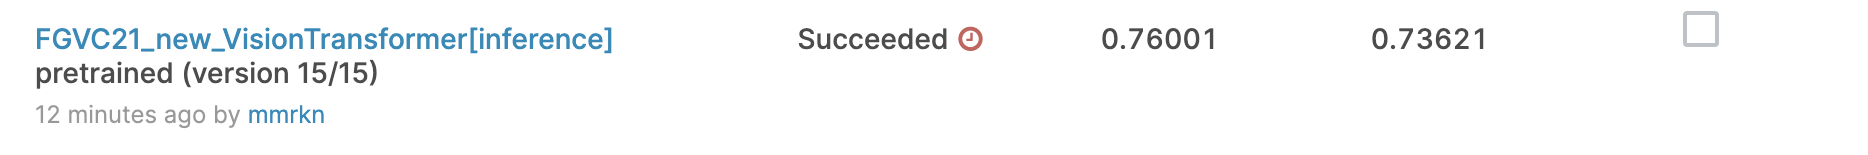
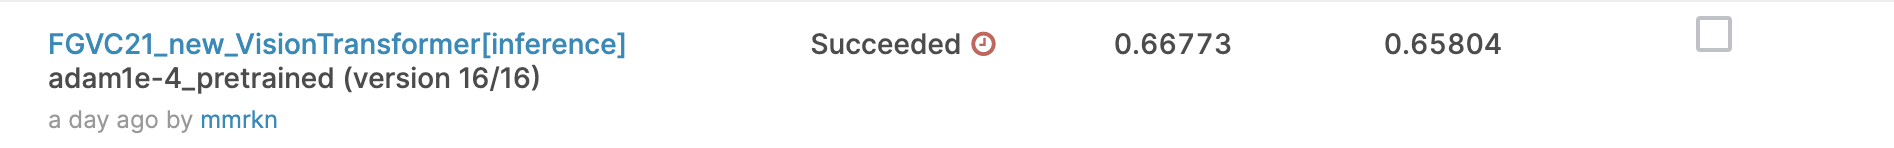
update 10/31

diff --git a/Configuration.md b/Configuration.md
@@ -36,9 +36,9 @@
 ### [ result ]
 | model architechture | vit_base_patch16_224 | resnet18d | vgg11 |
 | -- | -- | -- | -- |
-| best valid accuracy | 0.5906 | 0.8209 | 0.8384 |
-| best valid f1-score | 0.4453 | 0.6283 | 0.6349 |
-| best valid loss | 1.1983 | 0.5554 | 0.5132 |
-| leader board | 0.25752 | 0.42800 | 0.43018 |
-| training time | 320m 18s | 355m 1s | 358m 9s |
+| best valid accuracy | 0.8312 | 0.8568 | 0.8611 |
+| best valid f1-score | 0.6605 | 0.6708 | 0.6798 |
+| best valid loss | 0.5562 | 0.4989 | 0.4433 |
+| leader board (private)[^1] | 0.65804 (0.65804) | 0.73314 (0.73534) | 0.72685 (0.73933) |
+| training time | 325m 14s | 346m 46s | 379m 59s |
 [^1]:The private leaderboard is calculated with approximately 81% of the test data.
